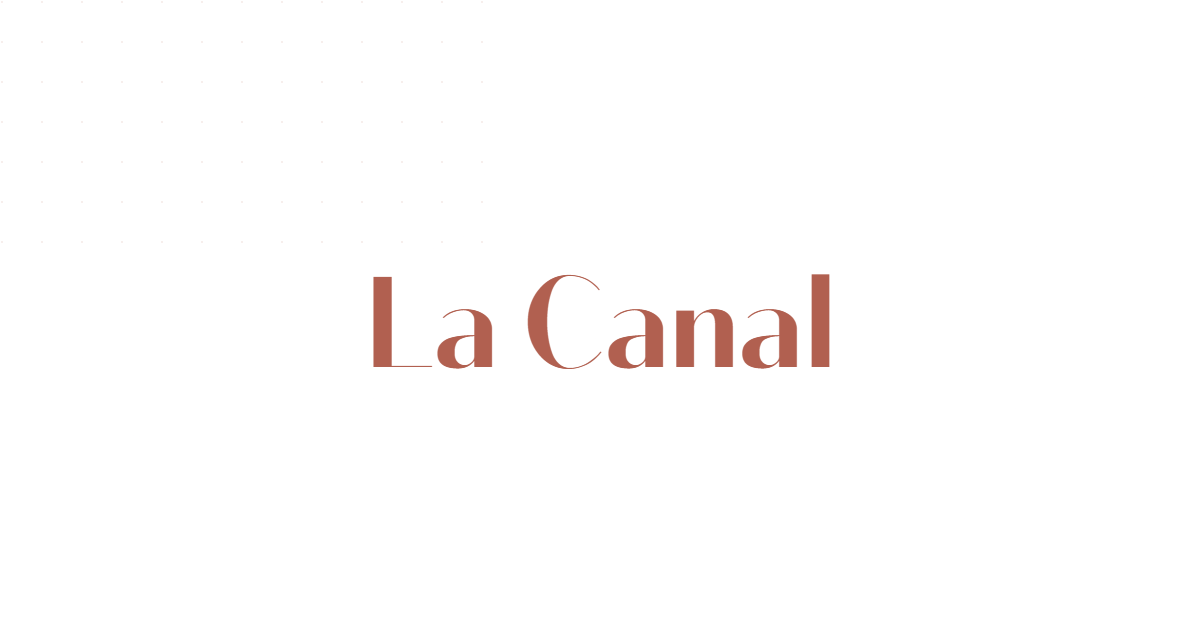
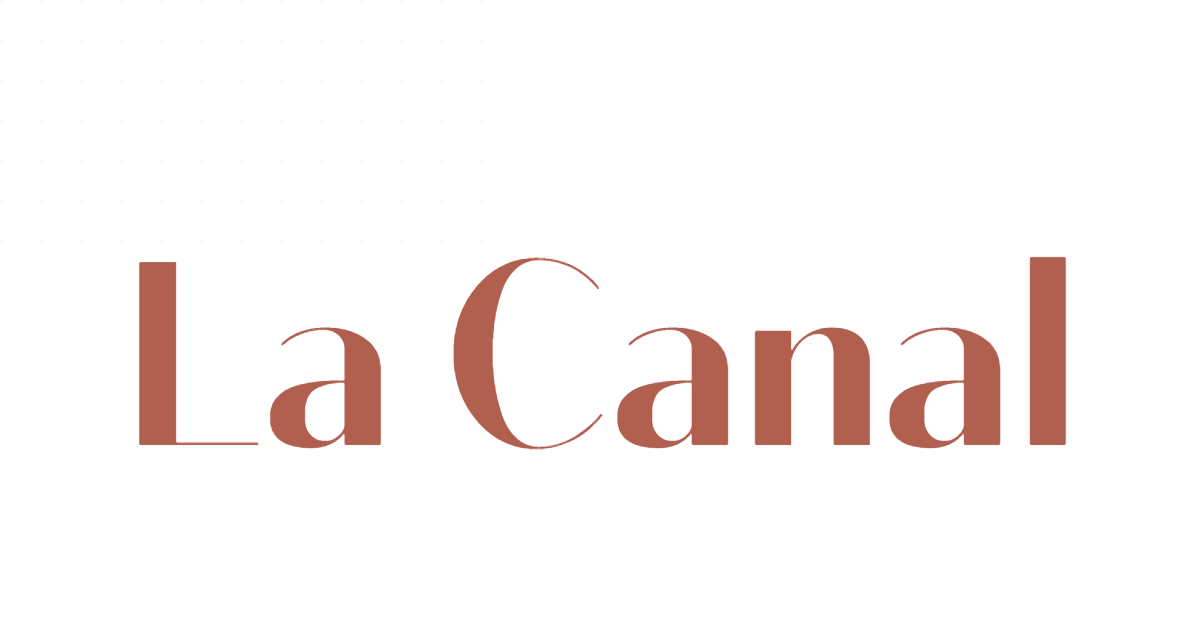
Updated OG-Image

diff --git a/src/components/DesignStudio.tsx b/src/components/DesignStudio.tsx
@@ -55,7 +55,7 @@ const DesignStudio: React.FC = () => {
                             }}></div>
 
                             <div className="relative z-10 text-center">
-                                <h3 className="text-9xl mb-6 leading-none whitespace-nowrap" style={{ fontFamily: 'Bodoni Sans Display, serif' }}>
+                                <h3 className="leading-none whitespace-nowrap" style={{ fontSize: '260px', fontFamily: 'Bodoni Sans Display, serif' }}>
                                     {ogTitle}
                                 </h3>
                                 {ogSubtitle && (
